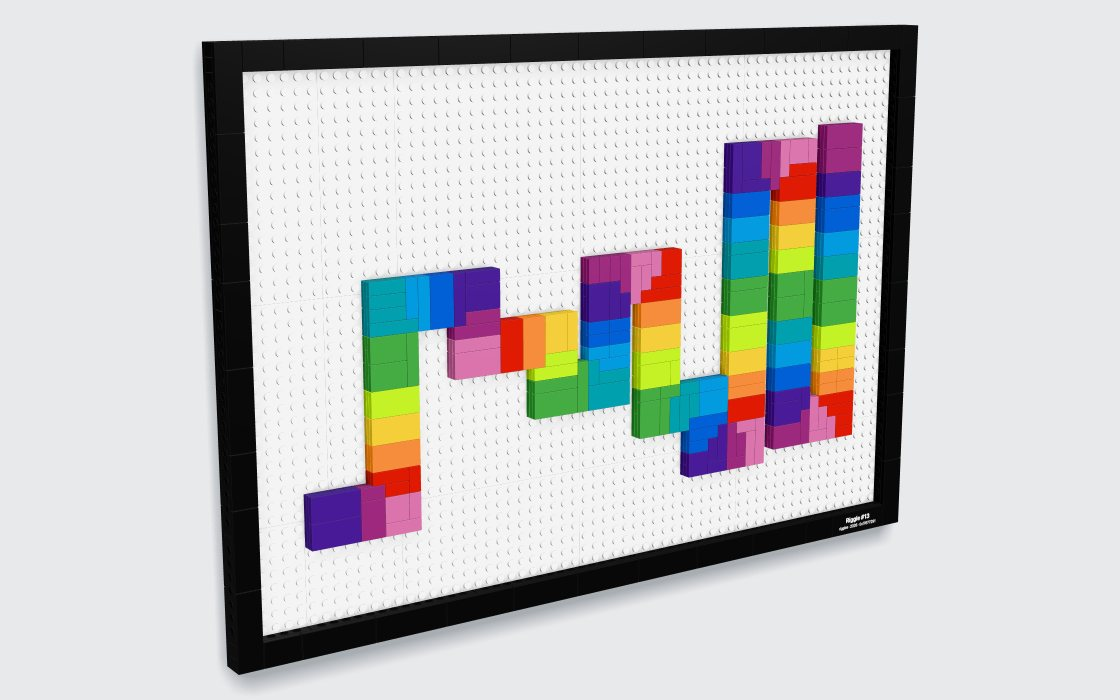
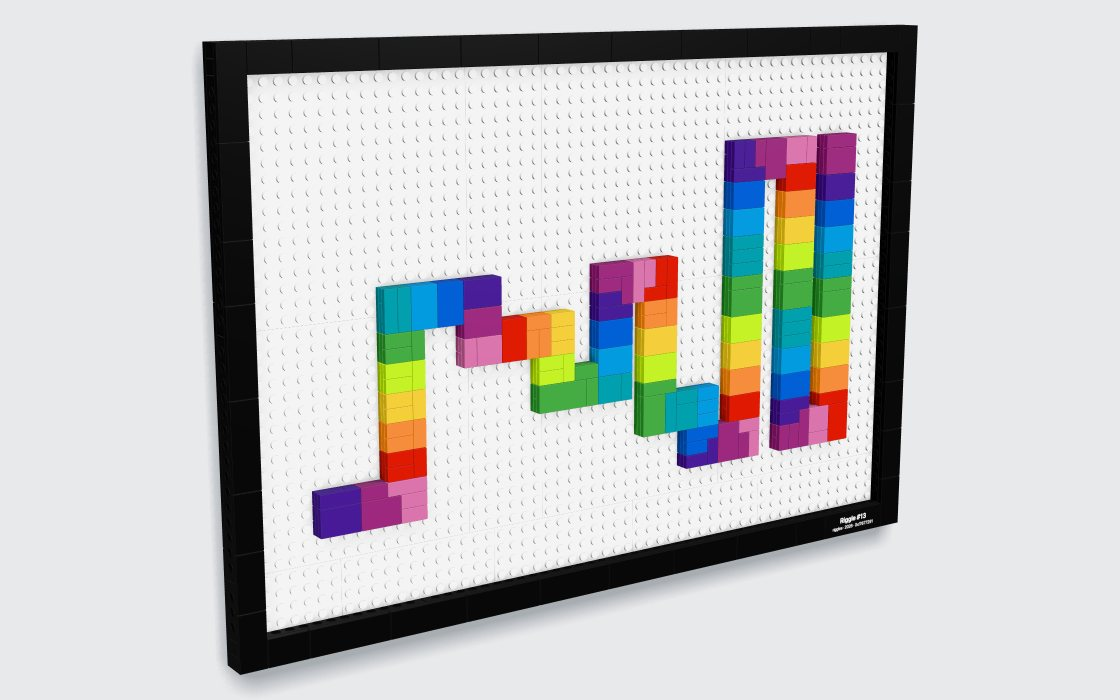
feat: docs, credits, and a panel the instructions can actually print
README and DISCLAIMER are riggles now, and they say the two things that are
true of this build and were not true of the fork: the site ships no key and
calls nothing while you use it, and the MIT licence covers this repository's
code but not the riggles artwork or the vendored engine.

The kit README and the nameplate fallback still carried Snowfro, Art Blocks
and Microduck into every downloaded ZIP. They carry the riggles credit and
John Karp's now.

modelTitle no longer reads a copy of the panel constants. The model carries
the panel it was built on, and the title reads that, so a cover can never
again claim a size the model does not have.

The large Relief panel is 54 x 36, not 60 x 40. A step page has to keep at
least 14 px per stud on a 1600 px page or the studs cannot be counted, and a
40 deep panel came out at 13.9. Keeping the readability bar and shrinking the
panel is the right way round. Both sides stay even and the ratio stays 3:2,
which means the depth is a multiple of 4.

Re-swept after the change: every riggle in both mosaic sizes and every third
riggle in all three displays at both sizes, 8890 models, no rule failures,
151 to 1155 pieces. Suite green at 531.

diff --git a/test/squiggle-booklet.test.ts b/test/squiggle-booklet.test.ts
@@ -4,9 +4,8 @@ import { renderHex } from '../src/core/palette';
 import { PARTS, type Kind } from '../src/core/parts';
 import { bookletPlan, closeUp, ghost, hooksFor, insetRoom, INV, inventoryPages, layerCaption, modelTitle, NUM_SIZE, PAGE_MM, PAGE_PX, partIcon, PLAN, planAspect, planFit, PRINT, raisedRibbon, shortName, splitNote, SqPageMaker, stepLayout, stepNote, stepParts, stepPlan, wallFace, zoomFocus } from '../src/squiggle/booklet';
 import { readCurve } from '../src/squiggle/curve';
-import { buildRelief } from '../src/squiggle/display';
+import { buildRiggleModel } from '../src/riggle/build';
 import type { SqModel } from '../src/squiggle/model';
-import { buildMosaic } from '../src/squiggle/mosaic';
 import { NAMEPLATE_MM } from '../src/squiggle/nameplate';
 import { SPECTRUM, WHITE, BLACK } from '../src/squiggle/spectrum';
 
@@ -17,7 +16,7 @@ function model(id: number, mode: typeof MODES[number], scale: 'small' | 'large' 
   const k = `${id}${mode}${scale}`;
   if (!cache.has(k)) {
     const f = fixture(id), c = readCurve(f), meta = { id: f.id, hash: f.hash };
-    cache.set(k, mode === 'mosaic' ? buildMosaic(c, scale, meta) : buildRelief(c, mode, scale, meta));
+    cache.set(k, buildRiggleModel(c, meta, mode === 'mosaic' ? { format: 'mosaic', scale } : { format: 'relief', display: mode, scale }));
   }
   return cache.get(k)!;
 }
@@ -172,12 +171,12 @@ describe('part icons', () => {
     expect(shortName('plate', 16, 16, 1)).toBe('Plate 16×16');
     expect(shortName('tile', 2, 6, 1)).toBe('Tile 2×6');
     // one format everywhere: display · size · studs
-    expect(modelTitle(model(1234, 'frame'))).toBe('Frame · Large · 64 × 32 studs');
-    expect(modelTitle(model(1234, 'frame', 'small'))).toBe('Frame · Small · 48 × 24 studs');
-    expect(modelTitle(model(1234, 'mosaic'))).toBe('Mosaic · 96 × 48 studs');
-    expect(modelTitle(model(1234, 'mosaic', 'small'))).toBe('Mosaic · 64 × 32 studs');
+    expect(modelTitle(model(1234, 'frame'))).toBe('Frame · Large · 54 × 36 studs');
+    expect(modelTitle(model(1234, 'frame', 'small'))).toBe('Frame · Small · 48 × 32 studs');
+    expect(modelTitle(model(1234, 'mosaic'))).toBe('Mosaic · 72 × 48 studs');
+    expect(modelTitle(model(1234, 'mosaic', 'small'))).toBe('Mosaic · 48 × 32 studs');
     // Floating and Backdrop stand on a socle: its size, not the Frame's panel
-    expect(modelTitle(model(1234, 'floating'))).toBe('Floating · Large · 48 × 40 studs');
+    expect(modelTitle(model(1234, 'floating'))).toBe('Floating · Large · 64 × 40 studs');
     expect(modelTitle(model(1234, 'backdrop'))).toMatch(/^Backdrop · Large · \d+ × \d+ studs$/);
   });
 });
@@ -347,10 +346,10 @@ describe('page texts', () => {
     expect(hooksFor('About 1.3 kg: tie a picture cord through the holes of the two top Technic bricks and hang it on two picture hooks, or on a screw with a wall plug.')).toBe(2);
     expect(hooksFor('About 3.2 kg: tie a picture cord through the holes of the two top Technic bricks and hang it on two screws with wall plugs.')).toBe(2);
   });
-  it('names the Squiggle like the page does', () => {
+  it('names the riggle like the page does', () => {
     const m = model(1234, 'frame'), src = { id: null, hash: null, features: {}, origin: 'upload' as const, original: '' };
-    expect(new SqPageMaker(m, src).title).toBe('My Chromie Squiggle · Frame · Large · 64 × 32 studs');
-    expect(new SqPageMaker(m, { ...src, id: 1234, origin: 'script' }).title).toBe('Chromie Squiggle #1234 · Frame · Large · 64 × 32 studs');
+    expect(new SqPageMaker(m, src).title).toBe('Riggle · Frame · Large · 54 × 36 studs');
+    expect(new SqPageMaker(m, { ...src, id: 1234, origin: 'script' }).title).toBe('Riggle #1234 · Frame · Large · 54 × 36 studs');
   });
 });
 

diff --git a/test/squiggle-exports.test.ts b/test/squiggle-exports.test.ts
@@ -129,7 +129,7 @@ describe('Squiggle exports on real models', () => {
     expect(body.reduce((a, r) => a + +r[q], 0)).toBe(n);
     expect(total[0]).toBe('TOTAL');
     expect(+total[q]).toBe(n);
-    for (const [role, name] of [['squiggle', 'Squiggle'], ['display', 'Display']] as const) {
+    for (const [role, name] of [['squiggle', 'Riggle'], ['display', 'Display']] as const) {
       const sec = body.filter(r => r[0] === name);
       expect(sec.length).toBe(m.subtotals[role].lots);
       expect(sec.reduce((a, r) => a + +r[q], 0)).toBe(m.subtotals[role].pieces);
@@ -155,7 +155,7 @@ describe('Squiggle exports on real models', () => {
 
   it('the kit ZIP holds every file, the README explains them', async () => {
     const m = model(1234, 'frame', 'large'), src = info(1234), base = fileBase(m, src);
-    expect(base).toBe('squiggle-1234-frame-large');
+    expect(base).toBe('riggle-1234-frame-large');
     const booklet = new Blob(['%PDF-1.4 booklet'], { type: 'application/pdf' });
     const png = (s: string) => new Blob([new Uint8Array([0x89, 0x50, 0x4e, 0x47]), s], { type: 'image/png' });
     const zip = await makeKit(m, src, booklet, { share: png('share'), nameplate: { plain: png('plain'), cutMarks: png('cut') } });
@@ -171,9 +171,9 @@ describe('Squiggle exports on real models', () => {
     expect(text(`${base}-share.png`).endsWith('share')).toBe(true);
     const readme = text('README.txt');
     for (const f of files) expect(readme).toContain(f.name);
-    for (const s of ['Chromie Squiggle #1234 in bricks', `${m.pieces.length} pieces`, 'Upload List', 'Want → Upload', 'HANGING THE FRAME', m.hanging!.advice,
-      'NOT been physically built', 'Personal use only', 'Not affiliated with, sponsored or endorsed by Art Blocks, the LEGO Group or BrickLink',
-      'LEGO® is a trademark of the LEGO Group', 'Snowfro / Art Blocks', 'Made by John Karp', "@victormustar's Microduck", 'MIT License'])
+    for (const s of ['Riggle #1234 in bricks', `${m.pieces.length} pieces`, 'Upload List', 'Want → Upload', 'HANGING THE FRAME', m.hanging!.advice,
+      'NOT been physically built', 'Personal use only', 'Not affiliated with, sponsored or endorsed by the LEGO Group or BrickLink',
+      'LEGO® is a trademark of the LEGO Group', 'Riggles is an onchain collection on Robinhood Chain', 'Built on Squiggle to Bricks by John Karp', 'MIT License'])
       expect(readme).toContain(s);
     expect(readme.split(m.hanging!.advice).length).toBe(2);                 // once, not repeated in the notes
     expect(readme).not.toMatch(/\bLEGO (set|kit|model)/);

diff --git a/src/squiggle/exports.ts b/src/squiggle/exports.ts
@@ -87,7 +87,7 @@ export const pickABrickNames = (m: SqModel, src: SquiggleInfo, n = pickABrickFil
 
 /** The nameplate at real size (600 dpi): plain, and on a white sheet with cut marks. */
 export async function nameplateFiles(m: SqModel): Promise<{ plain: Blob; cutMarks: Blob }> {
-  const lines = m.nameplate?.lines ?? [`Chromie Squiggle #${m.id}`, 'Snowfro · Art Blocks · 2020'];
+  const lines = m.nameplate?.lines ?? [`Riggle #${m.id}`, 'riggles · 2026'];
   const [plain, cutMarks] = await Promise.all([nameplatePNG(lines), nameplatePNG(lines, 600, { cutMarks: true })]);
   return { plain, cutMarks };
 }
@@ -317,9 +317,9 @@ export function kitReadme(m: SqModel, src: SquiggleInfo, files: { name: string; 
     'Models are generated automatically and checked by software only. They have NOT been physically built. Parts may be missing, wrong or unavailable, and the result may not hold together.',
     'Weights and prices are estimates. Provided "as is", without warranty of any kind. Use at your own risk.',
     'Personal use only: do not sell the models, the instructions or kits made from them.',
-    'Unofficial fan project · Not affiliated with, sponsored or endorsed by Art Blocks, the LEGO Group or BrickLink. LEGO® is a trademark of the LEGO Group. Parts data: Rebrickable.',
+    'Not affiliated with, sponsored or endorsed by the LEGO Group or BrickLink. LEGO® is a trademark of the LEGO Group. Parts data: Rebrickable.',
     '', 'CREDITS',
-    "Chromie Squiggle by Snowfro / Art Blocks. Made by John Karp. Inspired by @victormustar's Microduck (https://x.com/victormustar).",
+    'Riggles is an onchain collection on Robinhood Chain (https://riggles.xyz). Built on Squiggle to Bricks by John Karp.',
     `Source code (MIT License): ${SOURCE_URL}`, '');
   return out.join('\r\n');
 }

diff --git a/test/squiggle-nameplate.test.ts b/test/squiggle-nameplate.test.ts
@@ -23,12 +23,12 @@ function fakeCtx() {
 }
 
 describe('nameplate', () => {
-  it('reads "Chromie Squiggle #id" and "Snowfro · Art Blocks · 2020 · 0x" + 8 hex chars', () => {
-    expect(nameplateLines(1234, fixture(1234).hash)).toEqual(['Chromie Squiggle #1234', 'Snowfro · Art Blocks · 2020 · 0xd553fb67']);
+  it('reads "Riggle #id" and "riggles · 2026 · 0x" + 8 hex chars', () => {
+    expect(nameplateLines(1234, fixture(1234).hash)).toEqual(['Riggle #1234', 'riggles · 2026 · 0xd553fb67']);
     for (const f of readdirSync(DIR).map(n => fixture(+n.replace('.json', '')))) {
       const [a, b] = nameplateLines(f.id, f.hash);
-      expect(a).toBe(`Chromie Squiggle #${f.id}`);
-      expect(b).toMatch(/^Snowfro · Art Blocks · 2020 · 0x[0-9a-f]{8}$/);
+      expect(a).toBe(`Riggle #${f.id}`);
+      expect(b).toMatch(/^riggles · 2026 · 0x[0-9a-f]{8}$/);
       expect(b.endsWith(f.hash.slice(2, 10))).toBe(true);
     }
   });
@@ -36,9 +36,9 @@ describe('nameplate', () => {
   it('takes the hash with or without its 0x prefix', () => {
     const h = fixture(1234).hash;
     expect(nameplateLines(1234, h.slice(2))).toEqual(nameplateLines(1234, h));
-    expect(nameplateLines(0, '0x0123456789')[1]).toBe('Snowfro · Art Blocks · 2020 · 0x01234567');
-    expect(nameplateLines(0, '0123456789')[1]).toBe('Snowfro · Art Blocks · 2020 · 0x01234567');
-    expect(nameplateLines(0, '0x0123456789')[0]).toBe('Chromie Squiggle #0');
+    expect(nameplateLines(0, '0x0123456789')[1]).toBe('riggles · 2026 · 0x01234567');
+    expect(nameplateLines(0, '0123456789')[1]).toBe('riggles · 2026 · 0x01234567');
+    expect(nameplateLines(0, '0x0123456789')[0]).toBe('Riggle #0');
   });
 
   it('draws both lines centred, line 1 bold and bigger, inside ≥ 6% side margins', () => {

diff --git a/src/squiggle/booklet.ts b/src/squiggle/booklet.ts
@@ -386,11 +386,13 @@ function sizeText(m: SqModel) {
 const cap = (s: string) => s[0].toUpperCase() + s.slice(1);
 /** "Frame · Large · 64 × 32 studs" (the white panel), "Floating · Large · 48 × 40 studs" (the base), "Mosaic · 96 × 48 studs" */
 export function modelTitle(m: SqModel): string {
-  // The panel sizes come from the build, never from a constant copied in here:
-  // they moved once already when the panels were recut for riggles.
-  if (m.format === 'mosaic') return `Mosaic · ${RIGGLE_GRID[m.scale][0]} × ${RIGGLE_GRID[m.scale][1]} studs`;
+  // The panel comes off the model that was actually built. A copy of the
+  // constants here went stale the moment the panels were recut for riggles,
+  // and every booklet cover then claimed a size the model did not have.
+  const p = m.panel;
+  if (m.format === 'mosaic') return `Mosaic · ${p ? `${p.w} × ${p.h}` : `${RIGGLE_GRID[m.scale][0]} × ${RIGGLE_GRID[m.scale][1]}`} studs`;
   const d = m.display ?? 'frame', size = m.scale === 'large' ? 'Large' : 'Small';
-  if (d === 'frame') return `Frame · ${size} · ${RIGGLE_PANEL[m.scale].w} × ${RIGGLE_PANEL[m.scale].h} studs`;
+  if (d === 'frame') return `Frame · ${size} · ${p ? `${p.w} × ${p.h}` : `${RIGGLE_PANEL[m.scale].w} × ${RIGGLE_PANEL[m.scale].h}`} studs`;
   const base = m.pieces.filter(p => p.y === 0), ext = (a: 'x' | 'z', b: 'w' | 'd') => Math.max(...base.map(p => p[a] + p[b])) - Math.min(...base.map(p => p[a]));
   return `${cap(d)} · ${size} · ${ext('x', 'w')} × ${ext('z', 'd')} studs`;
 }

diff --git a/src/squiggle/display.ts b/src/squiggle/display.ts
@@ -548,6 +548,7 @@ export function buildRelief(curve: Curve, display: Display, scale: Scale, meta: 
   const rb = ribbonOf(curve, scale, !!opts.studs, { panel: opts.panel, width: opts.width, square: opts.square });
   const want = opts.panel ?? RIBBON_PANEL[scale];
   const b = display === 'frame' ? frame(rb, want) : standing(rb, display === 'backdrop');
+  const panel = { w: rb.panel.w, h: rb.panel.h };
   const { pieces, steps, stepNotes } = b.K, root = new Set(b.root);
   const ck = checkModel(pieces, { root: (_, i) => root.has(i), base: (_, i) => root.has(i) });
   const comInside = b.com ? ck.com.inside : null;
@@ -562,7 +563,7 @@ export function buildRelief(curve: Curve, display: Display, scale: Scale, meta: 
   const hanging = b.hanging ? { points: b.hanging, advice: advice(s.grams) } : null;
   if (hanging) notes.push(hanging.advice);
   return {
-    id: meta.id, format: 'relief', display, scale, pieces, steps, stepNotes,
+    id: meta.id, format: 'relief', display, scale, pieces, steps, stepNotes, panel,
     bom: s.bom, subtotals: s.subtotals, colors: s.colors,
     checks: { ...ck, twoStud: b.twoStud, comInside, rules },
     notes, dims: s.dims, grams: s.grams, cost: s.cost, pose: b.pose,

diff --git a/src/riggle/build.ts b/src/riggle/build.ts
@@ -22,15 +22,20 @@ import { MX, MZ } from '../squiggle/ribbon';
 import { riggleCurve, type RiggleCurve } from './curve';
 
 /**
- * Relief panel, studs. 3:2, and 0.8 cm a stud: 38.4 x 25.6 cm and 48 x 32 cm.
+ * Relief panel, studs. 3:2, and 0.8 cm a stud: 38.4 x 25.6 cm and 43.2 x 28.8 cm.
  *
  * Both sides stay even. An odd panel has no Technic run that cuts to its
  * frame and no base plate layout that bonds across it, so a 45 wide panel
- * builds nothing at all.
+ * builds nothing at all. 3:2 with both sides even means the depth is a
+ * multiple of 4.
+ *
+ * The depth is also capped by the instructions, not just by the wall: a step
+ * page has to keep at least 14 px per stud on a 1600 px page or the studs
+ * cannot be counted, and a 40 deep panel came out at 13.9.
  */
 export const RIGGLE_PANEL: Record<Scale, { w: number; h: number }> = {
   small: { w: 48, h: 32 },
-  large: { w: 60, h: 40 },
+  large: { w: 54, h: 36 },
 };
 
 /** Mosaic grid, studs. Also 3:2: 38.4 x 25.6 cm and 57.6 x 38.4 cm. */

diff --git a/index.html b/index.html
@@ -36,7 +36,7 @@
         <p class="lede">Build your riggle with real bricks. Free, unofficial, personal use.</p>
         <p class="lede2">Type your riggle’s number: watch it build in 3D, flip through the step-by-step instructions and order the parts.</p>
       </div>
-      <figure class="hero-pic"><img src="./hero.jpg" width="1120" height="700" alt="Riggle #13 in bricks: a relief in a black frame, hung on a wall"><figcaption>#13 · Large Frame · 609 pieces · 51 × 35 cm</figcaption></figure>
+      <figure class="hero-pic"><img src="./hero.jpg" width="1120" height="700" alt="Riggle #13 in bricks: a relief in a black frame, hung on a wall"><figcaption>#13 · Large Frame · 524 pieces · 46 × 32 cm</figcaption></figure>
       <section class="panel" id="input-panel">
         <form class="by-number" id="by-number" autocomplete="off" novalidate>
           <label for="sq-number" class="field-title">Riggle #</label>

diff --git a/src/squiggle/model.ts b/src/squiggle/model.ts
@@ -8,7 +8,7 @@ import { partGrams, partPrice } from './partinfo';
 
 export type Format = 'mosaic' | 'relief';
 export type Display = 'frame' | 'floating' | 'backdrop';
-/** Mosaic: small 64×32, large 96×48. Relief: Frame panel 48×24 or 64×32 (Floating and Backdrop use the same ribbon). */
+/** The panel or grid the model was built on, in studs. Set by the builder, never assumed. */
 export type Scale = 'small' | 'large';
 export type Role = 'squiggle' | 'display';
 
@@ -48,6 +48,8 @@ export interface SqModel {
   notes: string[];
   /** size in cm as displayed: width, depth, height */
   dims: [number, number, number];
+  /** the panel or grid this model was built on, studs */
+  panel?: { w: number; h: number };
   grams: number;
   cost: number;                  // order of magnitude, EUR
   /**

diff --git a/src/squiggle/mosaic.ts b/src/squiggle/mosaic.ts
@@ -510,7 +510,7 @@ export function buildMosaic(curve: Curve, scale: Scale, meta: { id: number; hash
   if (missing.length) notes.push(`Not sold by LEGO Pick a Brick: ${missing.map(l => `${l.name} ${l.colorName}`).join(', ')}.`);
 
   return {
-    id: meta.id, format: 'mosaic', display: null, scale, pieces, steps,
+    id: meta.id, format: 'mosaic', display: null, scale, pieces, steps, panel: { w: W, h: H },
     stepNotes: { 0: `Lay the ${steps[0].length} base plates edge to edge on a flat table: the tiles on top join them.` },
     bom: s.bom, subtotals: s.subtotals, colors: s.colors, checks, notes, dims: s.dims, grams: s.grams, cost: s.cost,
     pose: 'table', nameplate: { lines: nameplateLines(meta.id, meta.hash), piece: npIndex }, hanging: null,

diff --git a/test/squiggle-display.test.ts b/test/squiggle-display.test.ts
@@ -96,7 +96,7 @@ describe('relief displays', () => {
       // parts sold by LEGO, or the notes say so
       for (const l of m.bom) if (!elementId(l.part, l.color)) expect(m.notes.join(' ')).toContain(`${l.name} ${l.colorName}`);
       // nameplate: the 2×6 black tile with the Squiggle's name
-      expect(m.nameplate?.lines[0]).toBe(`Chromie Squiggle #${id}`);
+      expect(m.nameplate?.lines[0]).toBe(`Riggle #${id}`);
       expect(m.nameplate?.lines[1]).toContain(`0x${f.hash.slice(2, 10)}`);
       const np = m.pieces[m.nameplate!.piece];
       expect(np).toMatchObject({ kind: 'tile', w: 6, d: 2, c: BLACK, nameplate: true, role: 'display' });

diff --git a/test/squiggle-mosaic.test.ts b/test/squiggle-mosaic.test.ts
@@ -70,7 +70,7 @@ describe('mosaic', () => {
       expect(own.every(i => i >= 0)).toBe(true);
       // roles: coloured tiles are the Squiggle, the rest is the display
       expect(m.pieces.every(p => p.role === (p.kind === 'tile' && p.c !== BLACK ? 'squiggle' : 'display'))).toBe(true);
-      expect(m.nameplate?.lines[0]).toBe(`Chromie Squiggle #${id}`);
+      expect(m.nameplate?.lines[0]).toBe(`Riggle #${id}`);
       expect(m.pieces[m.nameplate!.piece]).toMatchObject({ kind: 'tile', w: 6, d: 2, c: BLACK, nameplate: true });
 
       // steps: every piece once, the plates first, then the tiles band by band from the front
